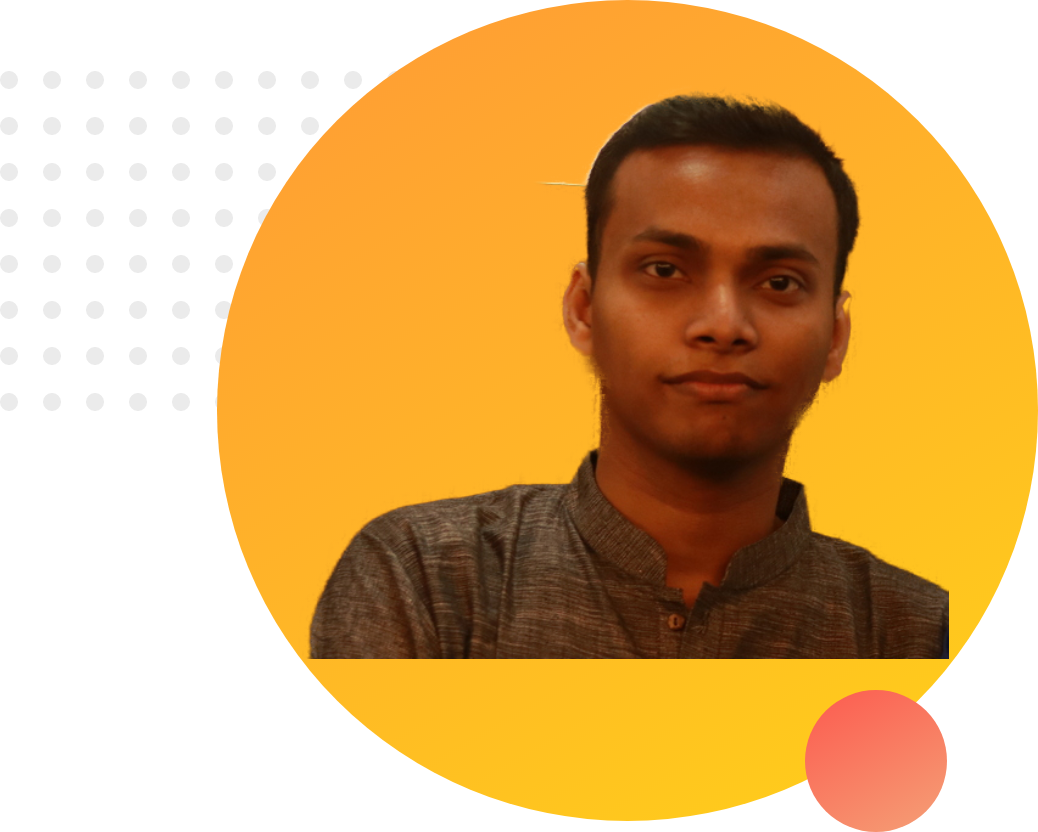
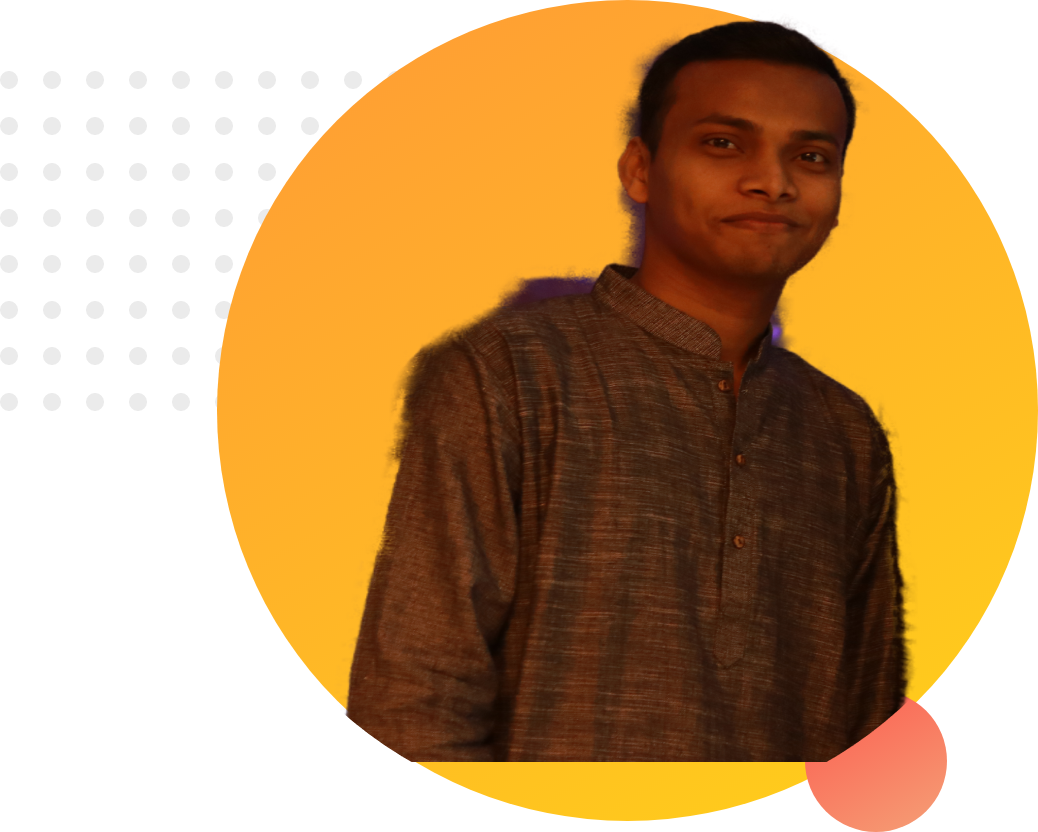
All Complited.

Changed region(s): [[0.2775, 0.0, 0.9249, 0.9375]]

diff --git a/index.html b/index.html
@@ -14,12 +14,12 @@
     <section class="top-banner">
         <div class="half-width">
             <h1>Welcome To</h1>
-            <h1><span class="name_highlight">Rahul</span> Website</h1>
+            <h1><span class="orange_highlight">Rahul</span> Website</h1>
             <h3>World Class Web Dev</h3>
-            <h5>Lorem ipsum dolor, sit amet consectetur adipisicing elit. Mollitia magnam molestias quo facilis libero
+            <p>Lorem ipsum dolor, sit amet consectetur adipisicing elit. Mollitia magnam molestias quo facilis libero
                 rem
                 nisi harum culpa? Cum, sed. Enim repellendus voluptatum iure quas. Ducimus tenetur mollitia quidem eius?
-            </h5>
+            </p>
             <a href="https://www.linkedin.com/in/rahul-saha-12701b124/" class="link-button" target="_blank">HIRE ME</a>
         </div>
         <div class="half-width">
@@ -28,6 +28,37 @@
 
 
     </section>
+    <section class="dream-area">
+        <div class="half-width">
+            <img src="./images/profile2.png" alt="">
+        </div>
+        <div class="half-width">
+            <h2>Dream Big</h2>
+            <h4>Become a Javascript Developer.</h4>
+            <p>Lorem ipsum dolor sit amet consectetur adipisicing elit. Laudantium, nam amet? Maxime qui, vitae deleniti tenetur corporis similique, amet sit accusantium reprehenderit ex libero deserunt est magnam corrupti quaerat dolore!</p>
+            <a target="_blank" class="link-button btn-color-1" href="">Download My Resome</a>
+        </div>
+    </section>
+    <section class="experience-area">
+        <h2>EXPERIENCES</h2>
+        <div id="full-stack" class="half-width single-experinence">
+            <h2>Full Stack Web Developer</h2>
+            <h3 class="orange_highlight">2021 - Present | Pro level developer</h3>
+            <p>
+                Lorem ipsum dolor sit amet, consectetur adipisicing elit. Et aliquid voluptate ut, tempora iusto fuga error dolorem animi nisi delectus inventore provident distinctio nulla mollitia, corporis eveniet magni. Sit, voluptas?
+            </p>
+        </div>
+        <div id="baby-stack" class="half-width single-experinence">
+            <h2>Baby Web Developer</h2>
+            <h3 class="orange_highlight">2020 - 2020 | Web Programming Hero Learner</h3>
+            <p>
+                Lorem ipsum dolor sit amet, consectetur adipisicing elit. Et aliquid voluptate ut, tempora iusto fuga error dolorem animi nisi delectus inventore provident distinctio nulla mollitia, corporis eveniet magni. Sit, voluptas?
+            </p>
+        </div>
+    </section>
+    <footer>
+        <p>@ Rahul Saha 2021, all right reserved.</p>
+    </footer>
 </body>
 
 </html>

diff --git a/style.css b/style.css
@@ -9,7 +9,7 @@ h1{
     
 }
 
-.name_highlight{
+.orange_highlight{
     color:orange;
 }
 
@@ -32,6 +32,7 @@ h1{
 
 section{
     height:500px;
+    margin-bottom:100px;
 }
 
 .link-button{
@@ -40,4 +41,47 @@ section{
     padding:5px 15px;
     border-radius:5px;
     color:white;
+}
+
+p{
+    color:dimgray;
+}
+
+.btn-color-1{
+    background-image:linear-gradient(30deg,rgb(148, 236, 163),  rgb(4, 207, 31));
+}
+
+.dream-area{
+    background-image:url("./images/dream-bg.png");
+    background-repeat: no-repeat;
+    background-position:right;
+}
+
+.single-experinence{
+    box-shadow:5px 5px 10px  gray;
+    border-left:3px solid orange;
+    border-radius:5px;
+    height:300px;
+    
+}
+.experience-area{
+    background-image:url("./images/exp-bg.png");
+    background-repeat:no-repeat;
+    background-position:left;
+}
+#full-stack{
+    border-left:10px solid;
+    border-image:linear-gradient(rgb(110, 255, 110), rgb(155, 5, 5));
+    border-image-slice:1;
+    background-color:white;
+}
+
+#baby-stack{
+    border-left:7px solid;
+    border-image:linear-gradient(rgb(247, 180, 80), rgb(151, 8, 144));
+    border-image-slice:1;
+}
+
+footer p{
+    text-align:center;
 }

diff --git a/README.md b/README.md
@@ -1,10 +1,14 @@
 # MPROJECT 1
 
-[Image cut](https://online.inpixio.com)
+[Image cut](https://www.inpixio.com/remove-background/)
 
 [image](https://www.photopea.com/)
 
-- [ ] background-image:linear-gradient
+- [x] background-image:linear-gradient
 
-- [ ] background-image:url()
-- [ ] text-decoration
+- [x] background-image:url()
+- [x] text-decoration
+- [x] background-repeat
+- [x] backgroud-position
+- [x] box-shadow
+- [ ] border-image:linear-gradient(angle, color1, color2)----->border-image-slice:1

diff --git a/scema.md b/scema.md
@@ -1,0 +1,14 @@
+<!-- section 2 -->
+- [x] section
+- [x] div 2
+- [x] background img
+- [x] div 1 img
+- [x] div 2 h1 h3 p button
+
+
+<!-- section 3 -->
+- [x] section
+- [x] two div
+- [x] title, para
+- [x] div design
+- [x] h2
